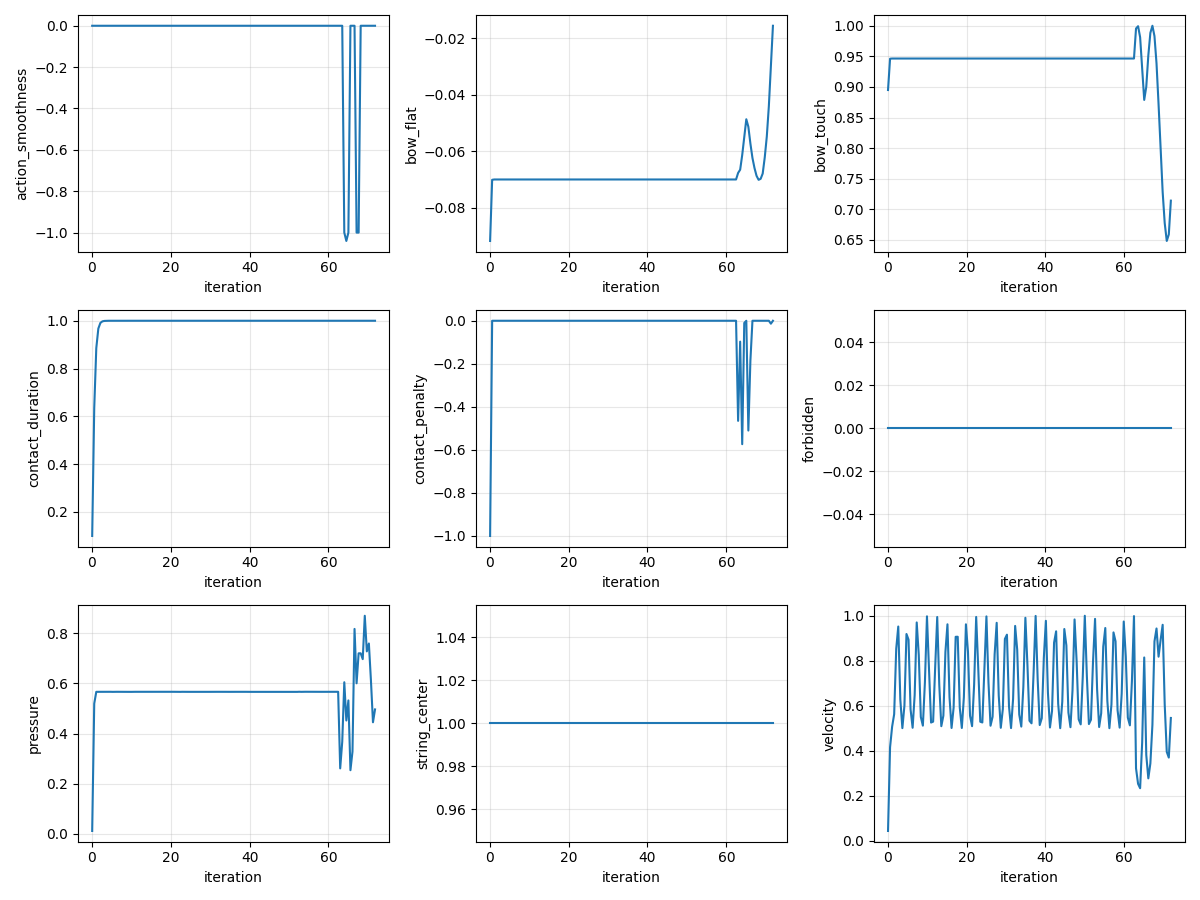
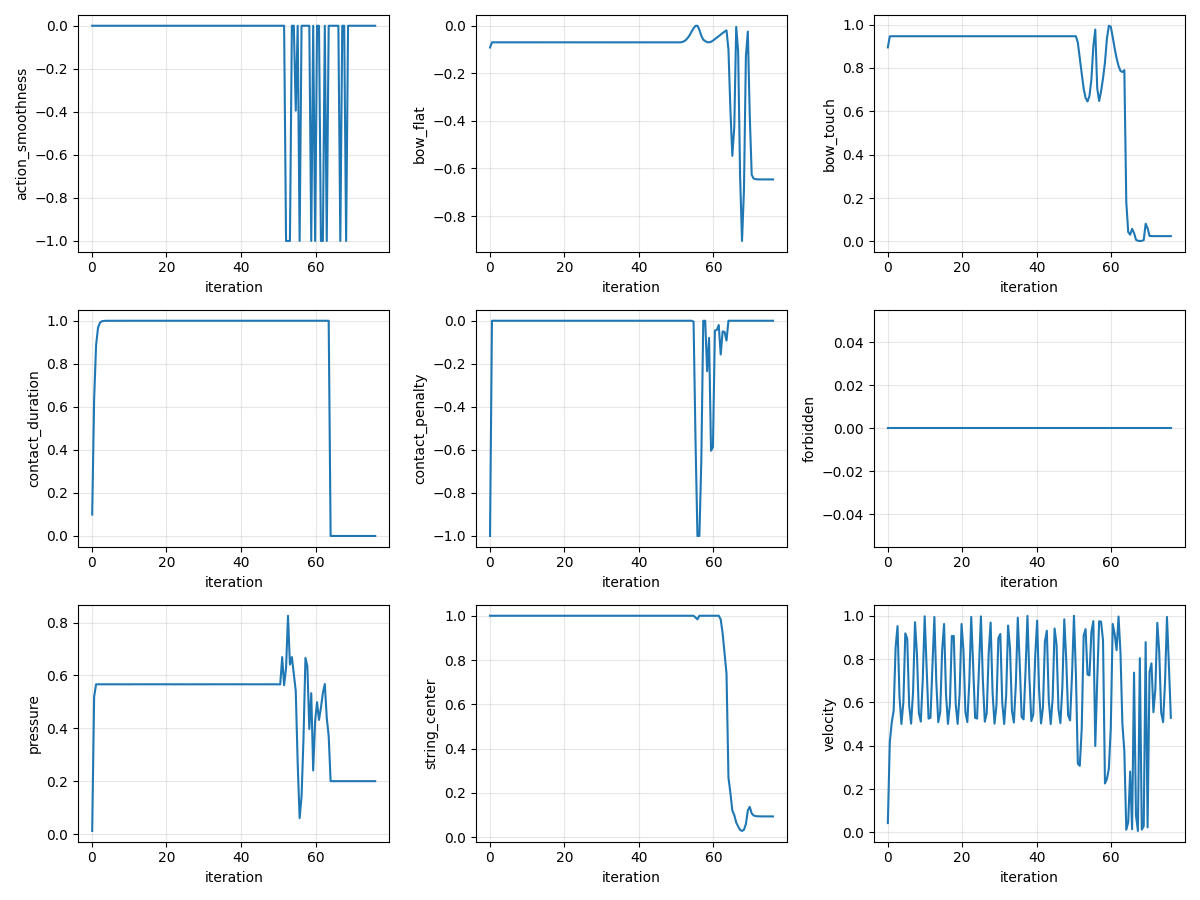
add normalizer for observation

diff --git a/agents/ppo_agent.py b/agents/ppo_agent.py
@@ -9,6 +9,12 @@ import optax
 from flax import linen as nn
 
 from training_interface import Agent, Transition
+from agents.obs_normalizer import (
+    RunningNorm,
+    init_running_norm,
+    normalize_obs,
+    update_running_norm,
+)
 
 class _PolicyNet(nn.Module):
     action_size: int
@@ -133,7 +139,8 @@ class PPOAgent(Agent):
         dummy_obs = jp.zeros((self.obs_size,), dtype=jp.float32)
         params = self.net.init(params_rng, dummy_obs)
         opt_state = self.optimizer.init(params)
-        return {"params": params, "opt_state": opt_state, "rng": rng}
+        obs_norm = init_running_norm(self.obs_size)
+        return {"params": params, "opt_state": opt_state, "rng": rng, "obs_norm": obs_norm}
 
     def act(
         self,
@@ -142,6 +149,9 @@ class PPOAgent(Agent):
         rng: jax.Array,
         deterministic: bool = False,
     ) -> Tuple[jax.Array, Dict[str, jax.Array]]:
+        # Normalized with the running mean/std as of the *previous*
+        # iteration's update -- see agents/obs_normalizer.py.
+        obs = normalize_obs(train_state["obs_norm"], obs)
         mean, log_std, value = self.net.apply(train_state["params"], obs)
         if deterministic:
             action = jp.tanh(mean)
@@ -159,6 +169,7 @@ class PPOAgent(Agent):
         params = train_state["params"]
         opt_state = train_state["opt_state"]
         rng = train_state["rng"]
+        obs_norm = train_state["obs_norm"]
 
         # `batch.done` is set on both true termination and episode-length
         # truncation (EpisodeWrapper); split them so we only skip bootstrapping
@@ -168,7 +179,11 @@ class PPOAgent(Agent):
         termination = batch.done * (1.0 - truncation)
 
         values = batch.extra["value"]
-        _, _, bootstrap_value = self.net.apply(params, batch.next_obs[-1])
+        # Same running stats `act()` used to normalize `batch.obs` during
+        # this rollout -- `obs_norm` isn't folded in until below, so this
+        # keeps the bootstrap value on the same scale as `values`.
+        norm_next_obs_last = normalize_obs(obs_norm, batch.next_obs[-1])
+        _, _, bootstrap_value = self.net.apply(params, norm_next_obs_last)
 
         advantages, value_targets = _compute_gae(
             rewards=batch.reward,
@@ -184,7 +199,12 @@ class PPOAgent(Agent):
         total = num_steps * num_envs
         flatten = lambda x: x.reshape((total,) + x.shape[2:])
 
-        obs = flatten(batch.obs)
+        raw_obs = flatten(batch.obs)
+        # Same running stats used above for the bootstrap value / used by
+        # `act()` to collect this batch -- updated (below) only after the
+        # loss uses them, so this iteration's optimization stays internally
+        # consistent.
+        obs = normalize_obs(obs_norm, raw_obs)
         action = flatten(batch.action)
         old_log_prob = flatten(batch.extra["log_prob"])
         advantages = flatten(advantages)
@@ -234,7 +254,17 @@ class PPOAgent(Agent):
             epoch_step, (params, opt_state), epoch_rngs
         )
 
-        new_train_state = {"params": params, "opt_state": opt_state, "rng": rng}
+        # Fold this iteration's raw observations into the running estimate
+        # *after* they've been used above, so the next iteration's act()/
+        # update() see it, not this one.
+        new_obs_norm = update_running_norm(obs_norm, raw_obs)
+
+        new_train_state = {
+            "params": params,
+            "opt_state": opt_state,
+            "rng": rng,
+            "obs_norm": new_obs_norm,
+        }
         param_leaves = jax.tree_util.tree_leaves(params)
         param_norm = optax.global_norm(params)
         params_isnan = jp.any(
@@ -247,5 +277,13 @@ class PPOAgent(Agent):
             "entropy": jp.mean(entropy),
             "param_norm": param_norm,
             "params_isnan": params_isnan,
+            # Running obs-normalization constants, carried through the
+            # metrics dict so callers (e.g. train.py) can persist them
+            # alongside the model without reaching into train_state.
+            "obs_norm": {
+                "mean": new_obs_norm.mean,
+                "var": new_obs_norm.var,
+                "count": new_obs_norm.count,
+            },
         }
         return new_train_state, metrics

diff --git a/agents/sac_agent.py b/agents/sac_agent.py
@@ -34,6 +34,12 @@ import optax
 from flax import linen as nn
 
 from training_interface import Agent, Transition
+from agents.obs_normalizer import (
+    RunningNorm,
+    init_running_norm,
+    normalize_obs,
+    update_running_norm,
+)
 
 
 class _ActorNet(nn.Module):
@@ -188,6 +194,7 @@ class SACAgent(Agent):
             "write_ptr": jp.zeros((), dtype=jp.int32),
             "buffer_size": jp.zeros((), dtype=jp.int32),
             "rng": rng,
+            "obs_norm": init_running_norm(self.obs_size),
         }
 
     def act(
@@ -198,6 +205,9 @@ class SACAgent(Agent):
         deterministic: bool = False,
     ) -> Tuple[jax.Array, Dict[str, jax.Array]]:
         params = train_state["actor_params"]
+        # Normalized with the running mean/std as of the *previous*
+        # iteration's update -- see agents/obs_normalizer.py.
+        obs = normalize_obs(train_state["obs_norm"], obs)
         if deterministic:
             mean, _ = self.actor_net.apply(params, obs)
             action = jp.tanh(mean)
@@ -240,6 +250,14 @@ class SACAgent(Agent):
         new_write_ptr = (write_ptr + total) % capacity
         new_buffer_size = jp.minimum(train_state["buffer_size"] + total, capacity)
 
+        # Fold this iteration's raw observations into the running estimate
+        # before sampling minibatches below, so every gradient step in this
+        # call (old buffer entries included) normalizes with the freshest
+        # stats -- unlike PPO, SAC's off-policy updates don't need the
+        # normalization to match what `act()` used when a sample was
+        # collected, since log_probs/values are always recomputed fresh.
+        new_obs_norm = update_running_norm(train_state["obs_norm"], obs)
+
         rng = train_state["rng"]
         init_carry = (
             train_state["actor_params"],
@@ -264,10 +282,12 @@ class SACAgent(Agent):
             sample_idx = jax.random.randint(
                 idx_rng, (self.batch_size,), 0, new_buffer_size
             )
-            mb_obs = buf_obs[sample_idx]
+            # Buffers hold raw observations regardless of when they were
+            # collected; normalize with the freshest running stats here.
+            mb_obs = normalize_obs(new_obs_norm, buf_obs[sample_idx])
             mb_action = buf_action[sample_idx]
             mb_reward = buf_reward[sample_idx]
-            mb_next_obs = buf_next_obs[sample_idx]
+            mb_next_obs = normalize_obs(new_obs_norm, buf_next_obs[sample_idx])
             mb_done = buf_done[sample_idx]
 
             alpha = jp.exp(log_alpha)
@@ -405,6 +425,7 @@ class SACAgent(Agent):
             "write_ptr": new_write_ptr,
             "buffer_size": new_buffer_size,
             "rng": rng,
+            "obs_norm": new_obs_norm,
         }
 
         param_leaves = (
@@ -425,5 +446,13 @@ class SACAgent(Agent):
         metrics["loss"] = metrics["critic_loss"] + metrics["actor_loss"]
         metrics["param_norm"] = param_norm
         metrics["params_isnan"] = params_isnan
+        # Running obs-normalization constants, carried through the metrics
+        # dict so callers (e.g. train.py) can persist them alongside the
+        # model without reaching into train_state.
+        metrics["obs_norm"] = {
+            "mean": new_obs_norm.mean,
+            "var": new_obs_norm.var,
+            "count": new_obs_norm.count,
+        }
 
         return new_train_state, metrics

diff --git a/agents/obs_normalizer.py b/agents/obs_normalizer.py
@@ -1,0 +1,65 @@
+"""
+obs_normalizer.py
+
+Running (online) per-dimension mean/std used to normalize observations
+before they reach either agent's networks. Both PPOAgent and SACAgent carry
+one of these inside their `train_state` and fold each rollout batch into it
+in `update()`, so the estimate keeps accumulating over the whole training
+run -- each iteration's `act()` normalizes with the estimate as of the end
+of the *previous* iteration (the only stats available at act-time), and
+`update()` then folds the new batch in for the next one.
+
+Uses Chan et al.'s parallel-variance formula (the same running-mean/std
+trick behind, e.g., OpenAI baselines' VecNormalize) to merge a new batch's
+mean/var into the running estimate exactly, rather than an exponential
+moving average, which would need a smoothing-constant to tune and would
+permanently under-weight the earliest observations.
+"""
+
+from __future__ import annotations
+
+import jax
+import jax.numpy as jp
+from flax import struct
+
+
+@struct.dataclass
+class RunningNorm:
+    mean: jax.Array
+    var: jax.Array
+    count: jax.Array  # total number of observations folded in so far
+
+
+def init_running_norm(obs_size: int, dtype=jp.float32) -> RunningNorm:
+    return RunningNorm(
+        mean=jp.zeros((obs_size,), dtype=dtype),
+        var=jp.ones((obs_size,), dtype=dtype),
+        # Small positive count (rather than 0) avoids a div-by-zero in the
+        # merge formula below on the very first update.
+        count=jp.array(1e-4, dtype=dtype),
+    )
+
+
+def update_running_norm(norm: RunningNorm, batch_obs: jax.Array) -> RunningNorm:
+    """Fold a (batch, obs_size) batch of freshly-collected observations into
+    the running per-dimension mean/var estimate."""
+    batch_mean = jp.mean(batch_obs, axis=0)
+    batch_var = jp.var(batch_obs, axis=0)
+    batch_count = batch_obs.shape[0]
+
+    delta = batch_mean - norm.mean
+    tot_count = norm.count + batch_count
+
+    new_mean = norm.mean + delta * batch_count / tot_count
+    m_a = norm.var * norm.count
+    m_b = batch_var * batch_count
+    new_m2 = m_a + m_b + jp.square(delta) * norm.count * batch_count / tot_count
+    new_var = new_m2 / tot_count
+
+    return norm.replace(mean=new_mean, var=new_var, count=tot_count)
+
+
+def normalize_obs(norm: RunningNorm, obs: jax.Array, eps: float = 1e-8) -> jax.Array:
+    """Scale `obs` to zero-mean/unit-variance per dimension using the
+    running estimate. `eps` guards dimensions whose variance is ~0."""
+    return (obs - norm.mean) / jp.sqrt(norm.var + eps)

diff --git a/train.py b/train.py
@@ -2,6 +2,7 @@ import argparse
 from pathlib import Path
 
 import jax
+import numpy as np
 import orbax.checkpoint as ocp
 import yaml
 
@@ -49,8 +50,16 @@ def main():
     # 3. Train. Swapping `agent` swaps the whole algorithm; swapping the
     #    env class swaps the whole task/robot. Neither affects the other.
     logger = MetricsLogger(live=False)
+    # `agent.update()` carries the running observation-normalization
+    # constants through its metrics dict every iteration (see
+    # agents/obs_normalizer.py); stash the latest one here so it's still
+    # available below however training ends (full run or Ctrl-C -- `train()`
+    # catches KeyboardInterrupt internally and returns normally either way).
+    last_metrics: dict = {}
 
     def log_fn(it, metrics):
+        nonlocal last_metrics
+        last_metrics = metrics
         logger.log(it, metrics)
         eval_reward = metrics.get("eval_reward", float("nan"))
         param_norm = float(metrics["param_norm"])
@@ -83,6 +92,27 @@ def main():
     path = Path(train_cfg["checkpoint_path"]).resolve()
     checkpointer.save(path, params)
     checkpointer.wait_until_finished()
+
+    # Save the running observation-normalization constants training ended
+    # with, so inference/eval can reproduce the exact same obs scaling the
+    # policy was trained on. Prefer train_state (always current) over
+    # last_metrics's copy, which is only as fresh as the last logged
+    # iteration.
+    obs_norm = train_state.get("obs_norm")
+    if obs_norm is None and "obs_norm" in last_metrics:
+        obs_norm = last_metrics["obs_norm"]
+    if obs_norm is not None:
+        mean = obs_norm.mean if hasattr(obs_norm, "mean") else obs_norm["mean"]
+        var = obs_norm.var if hasattr(obs_norm, "var") else obs_norm["var"]
+        count = obs_norm.count if hasattr(obs_norm, "count") else obs_norm["count"]
+        obs_norm_path = path.with_name(path.name + "_obs_norm.npz")
+        print(f"Saving observation-normalization constants to {obs_norm_path}...")
+        np.savez(
+            obs_norm_path,
+            mean=np.asarray(mean),
+            var=np.asarray(var),
+            count=np.asarray(count),
+        )
 
 
 if __name__ == "__main__":

diff --git a/inference.py b/inference.py
@@ -5,8 +5,10 @@ import time
 from mujoco import mjx
 import jax
 import jax.numpy as jp
+import numpy as np
 from envs.erhu_env import ErhuEnv
 from agents.ppo_agent import PPOAgent
+from agents.obs_normalizer import RunningNorm
 
 from utils import print_jp_dict, MetricsLogger
 import orbax.checkpoint as ocp
@@ -32,7 +34,24 @@ def main(xml_path):
     # Initialize network
     agent_state = agent.init(jax.random.PRNGKey(0))
     restored_params = checkpointer.restore(path, agent_state["params"])
-    agent_state = {"params": restored_params, "opt_state": agent_state["opt_state"]}
+    obs_norm = agent_state["obs_norm"]
+    obs_norm_path = path.with_name(path.name + "_obs_norm.npz")
+    if obs_norm_path.exists():
+        # Saved by train.py at the end of training -- see train.py /
+        # agents/obs_normalizer.py. Without this, act() would normalize
+        # eval-time observations with the untrained (mean=0, var=1) stats
+        # instead of what the policy was actually trained on.
+        npz = np.load(obs_norm_path)
+        obs_norm = RunningNorm(
+            mean=jp.asarray(npz["mean"]), var=jp.asarray(npz["var"]), count=jp.asarray(npz["count"])
+        )
+    else:
+        print(f"[WARNING] {obs_norm_path} not found; using untrained obs normalization stats.")
+    agent_state = {
+        "params": restored_params,
+        "opt_state": agent_state["opt_state"],
+        "obs_norm": obs_norm,
+    }
 
     log_print_interval = 0.5
     next_tension_print = 0

diff --git a/test_env.py b/test_env.py
@@ -12,6 +12,7 @@ from envs.erhu_env import ErhuEnv
 from envs.utils_envs import init_huarm, jacobian_ik, joint_to_actuator_id
 
 from utils import print_jp_dict, MetricsLogger
+from agents.obs_normalizer import init_running_norm, update_running_norm, normalize_obs
 
 # Arm joints whose IK is solved so that the bow_frog end-effector reaches the
 # single 3D position teleop sends -- teleop only ever specifies where the
@@ -84,6 +85,8 @@ def main(xml_path):
     next_tension_print = 0
     metrics_logger = MetricsLogger(live=True)
 
+    norm = init_running_norm(obs_size=state.obs.shape[0], dtype=jp.float32)
+
     _step = jax.jit(env.step)
     state = _step(state, jp.zeros(env.action_size))
     # Fill the same MjData object the viewer was launched with, rather than
@@ -120,6 +123,13 @@ def main(xml_path):
                     action[aid] = np.clip(delta / env.max_ctrl_delta, -1.0, 1.0)
 
                 state = _step(state, jp.asarray(action))
+
+                obs = jp.expand_dims(state.obs, 0)
+                norm = update_running_norm(norm, obs)
+                obs_norm = normalize_obs(norm, obs)
+
+                print(obs_norm)
+
                 if state.done:
                     print(f"\nEpisode terminated")
                     metrics_logger.plot("metrics.png")

diff --git a/README.md b/README.md
@@ -1,2 +1,28 @@
 # HuArm
 A robot arm that plays Erhu
+
+## Observation Space
+
+Built by `ErhuEnv._get_obs` (see [erhu_env.py](envs/erhu_env.py)) as a single
+flat vector via `jp.concatenate`, in this order. Dims are for the current
+model (`nq=5`, `nv=5`, `nu=4` (`action_size`), force sensor dim `3`,
+`n_stack=3`), giving a total observation size of **59**.
+
+| Component | Dim | Description |
+|---|---|---|
+| `qpos` | 5 | Joint positions (`nq`) |
+| `qvel` | 5 | Joint velocities (`nv`) |
+| `sound_box_rel` | 3 | Sound box position, relative to base |
+| `string_d_rel` | 3 | D-string position, relative to base |
+| `string_a_rel` | 3 | A-string position, relative to base |
+| `rel_quat` | 4 | Bow orientation quaternion, relative to erhu root |
+| `frog_rel` | 3 | Bow frog position, relative to erhu root |
+| `tip_rel` | 3 | Bow tip position, relative to erhu root |
+| `mid_rel` | 3 | Bow midpoint position, relative to erhu root |
+| `force` | 3 | Bow/string contact force sensor reading |
+| `desired_velocity` | 1 | Target bow velocity |
+| `desired_pressure` | 1 | Target bow pressure |
+| `forbidden_dist` | 1 | Distance to forbidden bowing area |
+| `action_history` | 12 | Last `n_stack=3` actions, flattened (`3 x action_size=4`) |
+| `force_history` | 9 | Last `n_stack=3` force readings, flattened (`3 x force_dim=3`) |
+| **Total** | **59** | |
